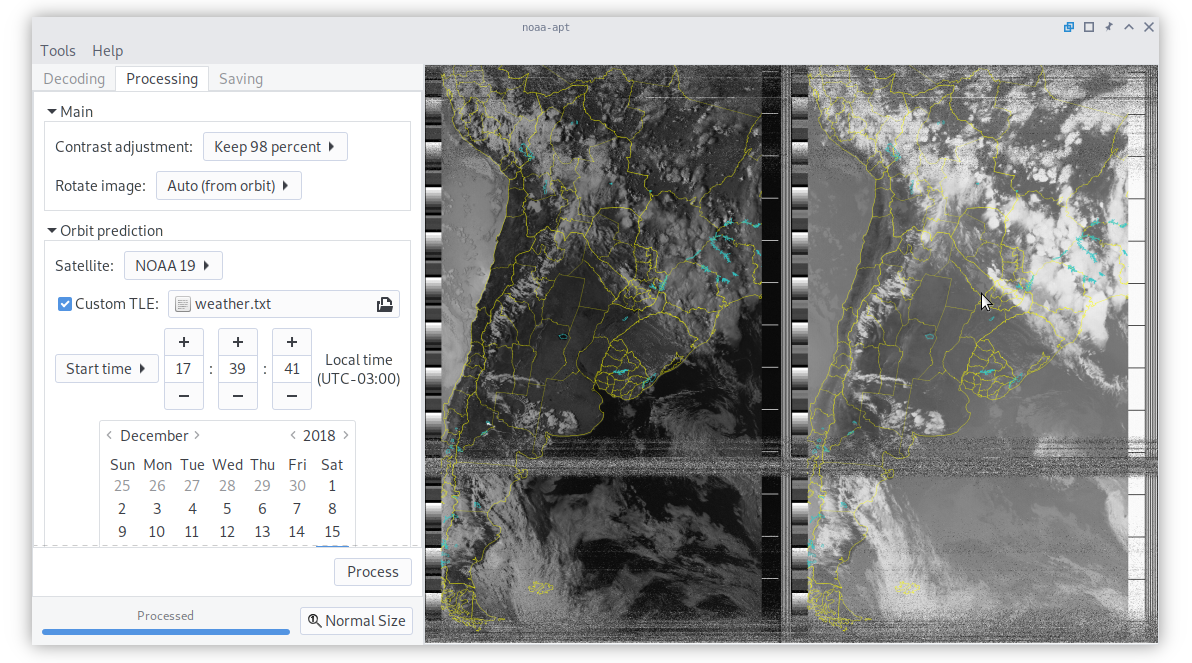
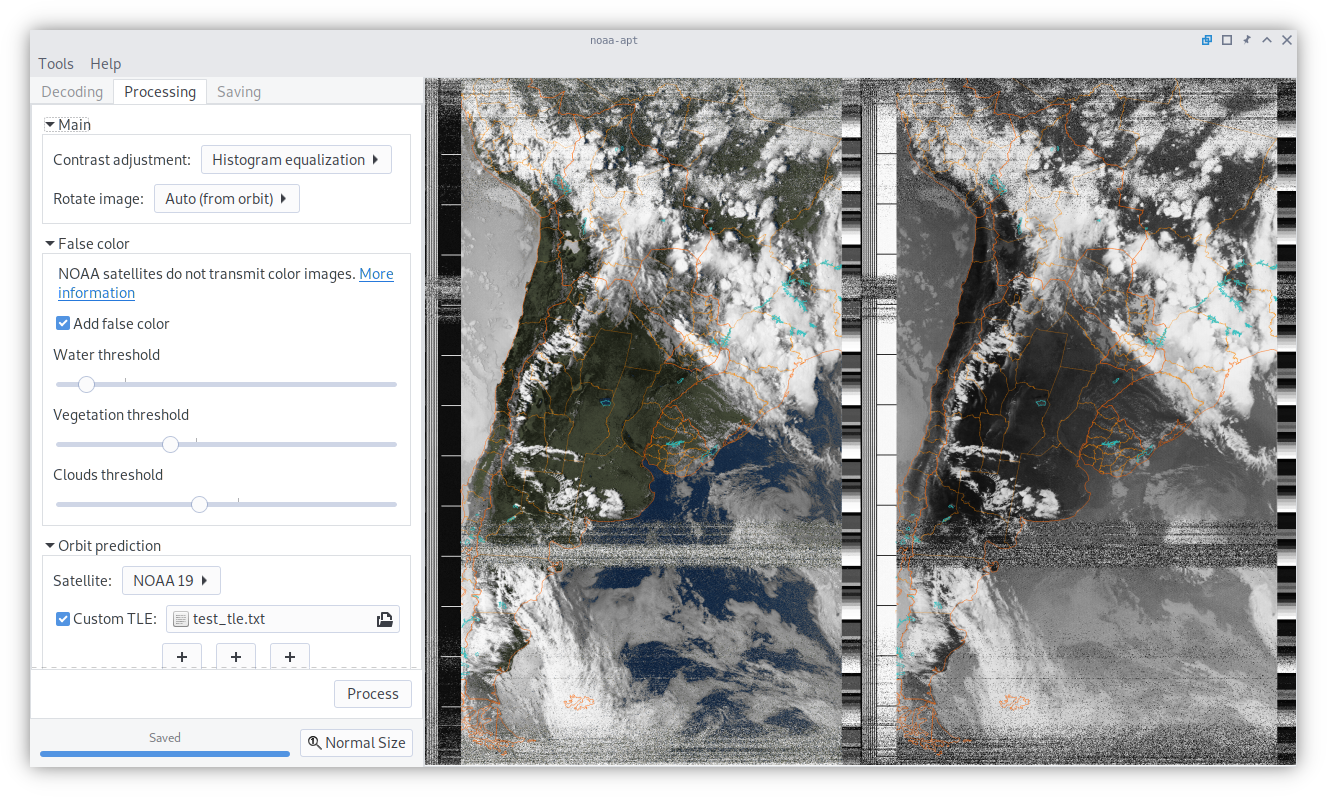
Updated website with new features and images

diff --git a/docs/index.html b/docs/index.html
@@ -11,7 +11,8 @@ layout: landing
 			<div id="sidebar" class="4u sidebar">
 				<section>
 					<img src="images/index_sidebar.jpg" alt="Example image"/>
-					Example image of Argentina, better antennas yield better results.
+					Example image of Europe, better antennas yield better results.
+					Credit: JKamue
 				</section>
 				<section>
 					<img src="images/index_sidebar_2.jpg" alt="Example image"/>
@@ -72,12 +73,10 @@ layout: landing
 			<h3>Disadvantages</h3>
 
 			<p>
-				<em>WXtoIMG</em> has lots of features you might want that
-				<em>noaa-apt</em> does not have, for example false-color images and live
-				decoding. Anyways, the quality of the black and white image should be
-				the same. Currently, my program has problems doing accurate map
-				overlays, but you can get nice results if you play a bit with some
-				settings.
+				<em>WXtoIMG</em> has better false-color and image overlays, also has
+				features <em>noaa-apt</em> does not have (like live decoding). Anyways,
+				the quality of the black and white image should be the same in both
+				programs.
 			</p>
 
 			<p>
@@ -91,12 +90,51 @@ layout: landing
 
 			<img src="images/gui.png" alt="GUI"/>
 
+			<h3>About NOAA images</h3>
+
+			<ul>
+				<li>
+					NOAA satellites are transmitting images 24/7, and the image you
+					receive is a real-time image of your location. The transmission is
+					free to be received by anyone with an antenna, and there is no
+					<em>official</em> decoder or receiver.
+				</li>
+
+				<li>
+					NOAA <strong>images are black and white</strong>. When you see a color
+					image it means it was colorized by some program, this is called
+					<em>false color</em>.
+				</li>
+
+				<li>
+					NOAA <strong>images do not have map lines</strong> (divisions between
+					countries, states, or coastlines). When you see images with lines, it
+					means that they used noaa-apt or WXtoImg to draw them according to a
+					map and calculations about the position of the satellite when the
+					image was taken.
+				</li>
+
+				<li>
+					The <strong>images are upside down 50% of the time</strong>, that's
+					because the satellites sometimes go from south to north and sometimes
+					fron north to south. noaa-apt and WXtoImg can calculate the orbit of
+					the satellite and rotate the image accordingly.
+				</li>
+
+				<li>
+					Images look <strong>much better on daylight</strong>, the satellites
+					also send infrared images at night but I recommend receiving passes
+					when the sun is high in the sky,
+				</li>
+			</ul>
+
 			<h3>Features</h3>
 
 			<ul>
 				<li>Decode raw images from WAV files.</li>
 				<li>Add map overlays with countries, states, provinces and lakes.</li>
-				<li>Really easy to use GUI (at least easier than most decoders).</li>
+				<li>Simple false color</li>
+				<li>Really easy to use (at least easier than other decoders).</li>
 				<li>Histogram equalization.</li>
 				<li>You can disable syncing and export every step of the decoding
 					process, useful for corrupted recordings.</li>

diff --git a/src/gui/gui.rs b/src/gui/gui.rs
@@ -518,9 +518,9 @@ fn build_system_menu(widgets: &Widgets) {
             "Thank you",
             &[
                 "RTL-SDR.com",
+                "Arcadie Z.",
                 "pietern",
                 "Ossi Herrala",
-                "Arcadie Z.",
                 "Nodraak",
                 "Dirk Lison",
                 "Grant T. Olson",
@@ -528,6 +528,7 @@ fn build_system_menu(widgets: &Widgets) {
                 "Bill Liles",
                 "FMighty",
                 "Sylogista",
+                "Tom Repetti",
                 "Peter Vogel",
                 "wren84",
                 "Florentin314",
@@ -542,6 +543,9 @@ fn build_system_menu(widgets: &Widgets) {
                 "K2SDR",
                 "K6KZO",
                 "TheLAX18",
+                "JKamue",
+                "Kind-Shame",
+                "Everyone who reported issues and sent me emails!",
             ],
         );
 

diff --git a/docs/usage.md b/docs/usage.md
@@ -114,7 +114,7 @@ There are also two optional *tools*:
     timestamp from one file to another. Otherwise just select time, date and
     write the timestamp to your WAV recording.
 
-![GUI]({{ site.baseurl }}/images/gui.png)
+![GUI]({{ site.baseurl }}/images/gui_2.png)
 
 ### Terminal
 
@@ -158,6 +158,9 @@ Optional arguments:
                         "auto", "yes", "no" (default). If using "auto", the
                         program uses orbit calculations and reception time to
                         determine if the pass was South to North.
+  -F,--false-color      Attempt to produce a colored image, from the grayscale
+                        channel and IR values. Experimental. Works best with
+                        "--contrast telemetry".
   -t,--start-time START_TIME
                         Provide recording start time, used for orbit
                         calculations. Use RFC 3339 format which includes date,
@@ -179,6 +182,7 @@ Optional arguments:
                         the resampling step. Very expensive operation, can take
                         several GiB of both RAM and disk. --wav-steps should be
                         set.
+  --rotate-image        Deprecated. Use --rotate instead
 ```
 
 If resampling, the modification timestamp should be preserved correctly.
@@ -222,6 +226,13 @@ south and sometimes from south to north. The program will try to guess the
 correct orientation from the satellite position at the recording time, be sure
 to select the correct satellite. If this fails, you can manually set to rotate
 the image or not.
+
+### False color
+
+The image is colorized according to the brightness of the pixels in the image.
+Generally this does not produce good results because water is confused with
+land, clouds are confused with vegetation, etc. In the GUI there are available
+three sliders that should be moved until the image looks acceptable.
 
 ### Satellite prediction
 

diff --git a/docs/development.md b/docs/development.md
@@ -26,6 +26,8 @@ The available documentation is:
 
 ## Code style
 
+- We use rustfmt, run with `cargo fmt`.
+
 - Should follow the [Style guidelines] but 80 characters as line width.
 
 - Docstrings: Try to document everything, follow [RFC-1574] without using links
@@ -363,6 +365,8 @@ I use Clippy too:
 
 - Ask Sylogista to update the [AUR package](https://aur.archlinux.org/packages/noaa-apt/).
 
+- Ask Tom Repetti to update the [NixOS Package](https://github.com/NixOS/nixpkgs/pull/96519).
+
 ## Check for updates
 
 The program sends a HTTP GET request and receives the latest version available,
@@ -395,11 +399,12 @@ If you want to disable this you can do it from the
 - RTL-SDR.com: For writing
     [a blog post](https://www.rtl-sdr.com/new-noaa-apt-image-decoder/).
 
+- Arcadie Z.: Histogram equalization, image rotation, false color, fixes and
+	  more.
+
 - pietern: I took the AM demodulator from his [apt137 decoder][apt137].
 
 - Ossi Herrala: Did some fixes and updated dependencies.
-
-- Arcadie Z.: Added a feature for rotating images. Did some fixes.
 
 - Nodraak: Added tips when saving files.
 
@@ -413,6 +418,8 @@ If you want to disable this you can do it from the
 
 - Sylogista: Maintains an [AUR package](https://aur.archlinux.org/packages/noaa-apt/).
 
+- Tom Repetti: [Packaged](https://github.com/NixOS/nixpkgs/pull/96519) program for NixOS.
+
 - Peter Vogel: For writing about noaa-apt on the web.
 
 - wren84 and Florentin314: Reported problems with decoded images.
@@ -422,6 +429,10 @@ If you want to disable this you can do it from the
 
 - BGNLouie, nosduh2, samarrangepas, KiwiEntropy, budude2, K2SDR, K6KZO,
     TheLAX18: Provided recordings to test map overlays.
+
+- JKamue, Kind-Shame: Provided example images for website.
+
+- To everyone who reported issues or sent me emails showing their images!
 
 ## References
 

diff --git a/docs/guide.md b/docs/guide.md
@@ -26,11 +26,15 @@ too. It is meant for another decoder, WXtoImg, but it has useful information.
 
 ## Important things to know
 
+- NOAA satellites are transmitting images 24/7, and the image you receive is a
+	real-time image of your location. The transmission is free to be received by
+	anyone with an antenna, and there is no official decoder or receiver.
+
 - NOAA **images are black and white**. People on the internet share color
     images, those images were originally black and white and then were
     colorized, probably by WXtoImg.
 
-- NOAA **images don't have map lines** (divisions between countries, states,
+- NOAA **images do not have map lines** (divisions between countries, states,
 		or coastlines). When you see images with lines, it means that they used
 		noaa-apt or WXtoImg to draw them according to a map and calculations about
 		the position of the satellite when the image was taken.

diff --git a/docs/how-it-works.md b/docs/how-it-works.md
@@ -239,6 +239,18 @@ geodesic instead of the red satellite track. The fix I found is to:
   small number. That small number is the offset we have to use to do the
   correction.
 
+### Histogram equalization
+
+To be documented, but there is nothing special. In false-color images, the RGB
+channels are converted to Lab and the equalization is made only over the L
+channel.
+
+### False color
+
+To be documented. The method is really simple, the pixels are classified as
+water, land, vegetation or clouds depending in some thresholds. These thresholds
+can be easily configured using the GUI.
+
 ## About APT images
 
 ### Modulation
